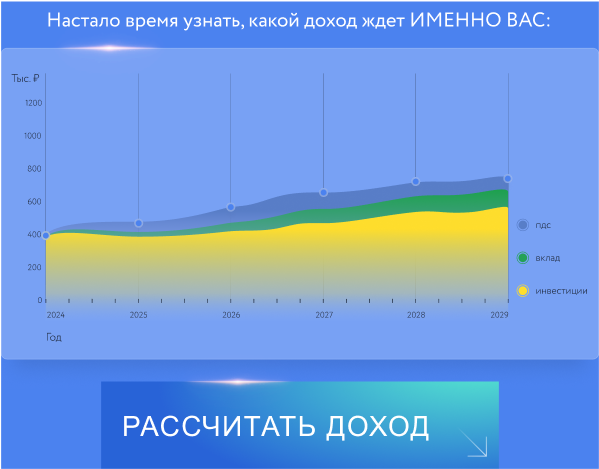
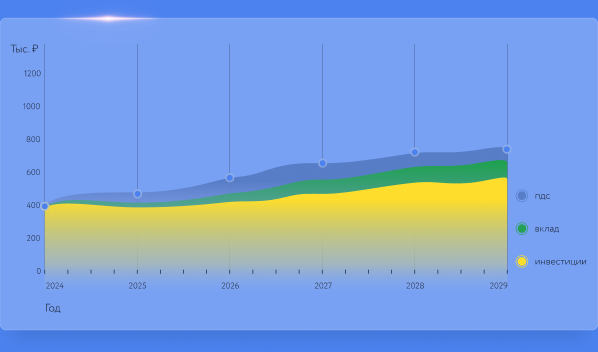
updates

diff --git a/index.html b/index.html
@@ -8,9 +8,12 @@
     <meta name="viewport" content="width=device-width, initial-scale=1">
     <meta name="format-detection" content="telephone=no, date=no, address=no, email=no">
     <meta name="x-apple-disable-message-reformatting">
+    <meta name="color-scheme" content="light dark">
+    <meta name="supported-color-schemes" content="light dark">
     <title>НПФ «БУДУЩЕЕ»</title>
     <style type="text/css">
-      @font-face { font-family: Circe; src: url("circe-light-webfont.woff2") format("woff2"), url("circe-light-webfont.woff") format("woff"); font-weight: 300; font-style: normal; font-display: swap; }
+      @font-face { font-family: Circe; src: url("https://kochhh.github.io/npf-email-test/circe-light-webfont.woff2") format("woff2"), url("https://kochhh.github.io/npf-email-test/circe-light-webfont.woff") format("woff"); font-weight: 300; font-style: normal; font-display: swap; }
+      :root { color-scheme: light dark; supported-color-schemes: light dark; }
       .ExternalClass { width: 100%; }
       .ExternalClass, .ExternalClass p, .ExternalClass span, .ExternalClass font, .ExternalClass td, .ExternalClass div { line-height: 100%; }
       #MessageViewBody { width: 100vw !important; min-width: 100vw !important; padding: 0 !important; margin: 0 !important; zoom: 1 !important; }
@@ -20,25 +23,24 @@
       table, td { border-collapse: collapse; mso-table-lspace: 0pt; mso-table-rspace: 0pt; }
       img { border: 0; height: auto; line-height: 100%; outline: none; text-decoration: none; -ms-interpolation-mode: bicubic; }
       @media screen {
-        td, th, div, p, h1, h2, h3, h4, h5, h6 { font-family: Arial, Helvetica, sans-serif; font-weight: 400; margin: 0; padding: 0; }
+        td, th, div, p, li, h1, h2, h3, h4, h5, h6 { font-family: Arial, Helvetica, sans-serif; font-weight: 400; margin: 0; padding: 0; }
         img { max-width: 100%; height: auto; }
       }
       @media only screen and (max-width: 599.98px) {
         .container { width: 100% !important; }
-        .loop-cell { background-size: 196px auto !important; }
-        .loop-cell--top { background-position: left 224px bottom -66px !important; }
-        .loop-cell--bottom { background-position: 224px -25px !important; }
+        .loop-cell--top { background-size: 196px auto !important; background-position: 224px 171px !important; }
+        .loop-cell--bottom { background-size: 196px auto !important; background-position: 224px -25px !important; }
         .decor-cell { display: none !important; }
       }
       @media only screen and (max-width: 519.98px) {
         .container-cell { padding: 0 20px 0 20px !important; }
-        .head-cell { display: block !important; width: 100% !important; }
-        .head-cell--left { padding: 66px 0 0 0 !important; }
-        .loop-cell--top { background-position: right 10px bottom -66px !important; }
-        .loop-cell--bottom { background-position: right 10px top -25px !important; }
+        .head-cell--left { display: block !important; width: 100% !important; height: auto !important; padding: 64px 0 0 0 !important; }
+        .head-cell--right { display: block !important; width: 100% !important; }
+        .loop-cell--top, .loop-cell--bottom { background: none !important; }
       }
       @media only screen and (max-width: 439.98px) {
         .adv-cell { display: block !important; width: 100% !important; padding: 0 0 6px 0 !important; }
+        .adv-cell--last { display: block !important; width: 100% !important; padding: 0 !important; }
         .eye-cell { display: none !important; }
       }
       @media only screen and (max-width: 359.98px) {
@@ -56,10 +58,12 @@
       </noscript>
     <![endif]-->
     <!--[if lte mso 11]>
-      <style type="text/css"></style>
+      <style type="text/css">
+        table { border-collapse: collapse !important; mso-table-lspace: 0pt !important; mso-table-rspace: 0pt !important; }
+      </style>
     <![endif]-->
   </head>
-  <body bgcolor="#FFFFFE" style="margin: 0; padding: 0; width: 100%; word-break: break-word; font-family: Arial, Helvetica, sans-serif; font-size: 14px; line-height: 15px; background: #FFFFFE; color: #292929;">
+  <body bgcolor="#FFFFFE" class="body" style="margin: 0; padding: 0; width: 100%; word-break: break-word; font-family: Arial, Helvetica, sans-serif; font-size: 14px; line-height: 15px; background: #FFFFFE; color: #292929;">
     <div style="max-height: 0; overflow: hidden; mso-hide: all;" aria-hidden="true">
       Обеспечьте свое будущее с программой долгосрочных сбережений (ПДС)
     </div>
@@ -68,7 +72,7 @@
         <td style="background: #FFFFFE;">
           <table role="presentation" cellpadding="0" cellspacing="0" width="100%" style="border-collapse: collapse;">
             <tr>
-              <td align="center" style="background: #000000 url(head-image@2x.jpg) center top / auto 268px no-repeat; background-color: #000000; background-position: center top; background-repeat: no-repeat; background-size: auto 268px;">
+              <td class="head" align="center" style="background: #000000 url(https://kochhh.github.io/npf-email-test/head-image@2x.jpg) center top / 600px 350px no-repeat; background-color: #000000; background-position: center top; background-repeat: no-repeat; background-size: 600px 350px;">
                 <table role="presentation" class="container" cellpadding="0" cellspacing="0" width="600" style="border-collapse: collapse;">
                   <tr>
                     <td align="left" class="container-cell" style="padding: 0 20px 0 50px;">
@@ -77,24 +81,24 @@
                           <td style="padding: 27px 0 0 0;">
                             <table role="presentation" cellpadding="0" cellspacing="0" width="100%" style="border-collapse: collapse;">
                               <tr>
-                                <td valign="top" width="50%" colspan="2">
+                                <td valign="top" width="50%">
                                   <a href="#" target="_blank" style="text-decoration: none;">
-                                    <img src="logo@2x.png" width="113" height="43" border="0" alt="НПФ «БУДУЩЕЕ»" style="display: block;">
+                                    <img src="https://kochhh.github.io/npf-email-test/logo@2x.png" width="113" height="43" border="0" alt="НПФ «БУДУЩЕЕ»" />
                                   </a>
                                 </td>
                               </tr>
                               <tr>
-                                <td class="loop-cell loop-cell--top" style="background: url(loop@2x.png) left 224px bottom -92px / 266px auto no-repeat; background-position: left 224px bottom -92px; background-repeat: no-repeat; background-size: 266px auto;">
+                                <td class="loop-cell--top" style="background: url(https://kochhh.github.io/npf-email-test/loop@2x.png) 224px 164px / 266px auto no-repeat; background-position: 224px 164px; background-repeat: no-repeat; background-size: 266px auto;">
                                   <table role="presentation" cellpadding="0" cellspacing="0" width="100%" style="border-collapse: collapse;">
                                     <tr>
-                                      <td class="head-cell head-cell--left" valign="bottom" width="50%" style="padding: 66px 0 24px 0; font-family: Circe, Arial, Helvetica, sans-serif; font-size: 19.4px; line-height: 21.6px; text-transform: uppercase; color: #FFFFFE; letter-spacing: 0.05em;">
+                                      <td class="head-cell--left" valign="bottom" width="50%" height="172" style="padding: 0 0 24px 0; font-family: Circe, Arial, Helvetica, sans-serif; font-size: 19.4px; line-height: 21.6px; text-transform: uppercase; color: #FFFFFE; letter-spacing: 0.05em;">
                                         <h1 style="margin: 0; max-width: 220px; font-family: Circe, Arial, Helvetica, sans-serif; font-size: 19.4px; font-weight: 300; line-height: 21.6px; text-transform: uppercase; color: #FFFFFE; letter-spacing: 0.05em;">
                                           Обеспечьте<br /> свое будущее с&nbsp;программой <span style="color: #4B82EF;">долгосрочных сбережений (ПДС)</span>
                                         </h1>
                                       </td>
-                                      <td class="head-cell head-cell--right" align="right" valign="bottom" width="50%">
-                                        <a href="#" target="_blank" style="display: block; text-decoration: none;" title="Оформить ПДС в НПФ «БУДУЩЕЕ»" aria-label="Оформить ПДС в НПФ «БУДУЩЕЕ»">
-                                          <img src="head-button@2x.png" width="204" height="82" border="0" alt="Оформить ПДС в НПФ «БУДУЩЕЕ»" style="display: block;">
+                                      <td class="head-cell--right" align="right" valign="bottom" width="50%">
+                                        <a href="#" target="_blank" style="text-decoration: none;" title="Оформить ПДС в НПФ «БУДУЩЕЕ»" aria-label="Оформить ПДС в НПФ «БУДУЩЕЕ»">
+                                          <img src="https://kochhh.github.io/npf-email-test/head-button@2x.png" width="204" height="82" border="0" alt="Оформить ПДС в НПФ «БУДУЩЕЕ»" />
                                         </a>
                                       </td>
                                     </tr>
@@ -117,7 +121,7 @@
                     <td align="left" class="container-cell" style="padding: 0 50px 0 50px;">
                       <table role="presentation" cellpadding="0" cellspacing="0" width="100%" style="border-collapse: collapse;">
                         <tr>
-                          <td class="loop-cell loop-cell--bottom" style="padding: 30px 0 25px 0; background: url(loop@2x.png) 224px -32px / 266px auto no-repeat; background-position: 224px -32px; background-repeat: no-repeat; background-size: 266px auto;">
+                          <td class="loop-cell--bottom" style="padding: 30px 0 25px 0; background: url(https://kochhh.github.io/npf-email-test/loop@2x.png) 224px -32px / 266px auto no-repeat; background-position: 224px -32px; background-repeat: no-repeat; background-size: 266px auto;">
                             <table role="presentation" cellpadding="0" cellspacing="0" width="100%" style="border-collapse: collapse;">
                               <tr>
                                 <td style="padding: 0 0 12px 0; font-size: 10px; line-height: 11.4px;">
@@ -136,7 +140,7 @@
                                   <table role="presentation" cellpadding="0" cellspacing="0" width="100%" style="border-collapse: collapse;">
                                     <tr valign="middle">
                                       <td width="64">
-                                        <img src="digit-01@2x.png" width="52" height="52" border="0" alt="01" style="display: block;">
+                                        <img src="https://kochhh.github.io/npf-email-test/digit-01@2x.png" width="52" height="52" border="0" alt="01" />
                                       </td>
                                       <td height="40" style="padding: 6px 0 6px 0; font-size: 14px; line-height: 15px; color: #292929;">
                                         Вы заключаете договор с&nbsp;АО&nbsp;«НПФ&nbsp;«БУДУЩЕЕ»
@@ -144,7 +148,7 @@
                                     </tr>
                                     <tr valign="middle">
                                       <td width="64">
-                                        <img src="digit-02@2x.png" width="52" height="52" border="0" alt="02" style="display: block;">
+                                        <img src="https://kochhh.github.io/npf-email-test/digit-02@2x.png" width="52" height="52" border="0" alt="02" />
                                       </td>
                                       <td height="40" style="padding: 6px 0 6px 0; font-size: 14px; line-height: 15px; color: #292929;">
                                         Вносите деньги на&nbsp;свой счет в&nbsp;течение срока участия в&nbsp;программе
@@ -152,7 +156,7 @@
                                     </tr>
                                     <tr valign="middle">
                                       <td width="64">
-                                        <img src="digit-03@2x.png" width="52" height="52" border="0" alt="03" style="display: block;">
+                                        <img src="https://kochhh.github.io/npf-email-test/digit-03@2x.png" width="52" height="52" border="0" alt="03" />
                                       </td>
                                       <td height="40" style="padding: 6px 0 6px 0; font-size: 14px; line-height: 15px; color: #292929;">
                                         Государство в&nbsp;последующие 10 лет дополнительно софинансирует ваши вложения до&nbsp;36&nbsp;тыс.&nbsp;рублей в&nbsp;год
@@ -160,7 +164,7 @@
                                     </tr>
                                     <tr valign="middle">
                                       <td width="64">
-                                        <img src="digit-04@2x.png" width="52" height="52" border="0" alt="04" style="display: block;">
+                                        <img src="https://kochhh.github.io/npf-email-test/digit-04@2x.png" width="52" height="52" border="0" alt="04" />
                                       </td>
                                       <td height="40" style="padding: 6px 0 6px 0; font-size: 14px; line-height: 15px; color: #292929;">
                                         Вы ежегодно получаете налоговый вычет до&nbsp;60&nbsp;тыс.&nbsp;рублей
@@ -168,7 +172,7 @@
                                     </tr>
                                     <tr valign="middle">
                                       <td width="64">
-                                        <img src="digit-05@2x.png" width="52" height="52" border="0" alt="05" style="display: block;">
+                                        <img src="https://kochhh.github.io/npf-email-test/digit-05@2x.png" width="52" height="52" border="0" alt="05" />
                                       </td>
                                       <td height="40" style="padding: 6px 0 6px 0; font-size: 14px; line-height: 15px; color: #292929;">
                                         НПФ инвестирует ваши средства в&nbsp;течение всего срока договора, приумножая ваш доход<sup style="font-size: 8px; line-height: 0;">1</sup>
@@ -176,7 +180,7 @@
                                     </tr>
                                     <tr valign="middle">
                                       <td width="64">
-                                        <img src="digit-06@2x.png" width="52" height="52" border="0" alt="06" style="display: block;">
+                                        <img src="https://kochhh.github.io/npf-email-test/digit-06@2x.png" width="52" height="52" border="0" alt="06" />
                                       </td>
                                       <td height="40" style="padding: 6px 0 6px 0; font-size: 14px; line-height: 15px; color: #292929;">
                                         Вы можете получить накопленные средства с&nbsp;инвестиционным доходом уже через 15&nbsp;лет или раньше, в&nbsp;случае особых жизненных ситуаций<sup style="font-size: 8px; line-height: 0;">2</sup>
@@ -189,11 +193,13 @@
                                           <tr height="5">
                                             <td width="16" style="font-size: 0; line-height: 0;">&nbsp;</td>
                                             <td style="font-size: 0; line-height: 0;">
-                                              <img src="tail@2x.png" width="8" height="5" border="0" alt="" style="display: block;">
+                                              <div style="display: block; width: 0; height: 0; border-style: solid; border-width: 0 4px 5px 4px; border-color: transparent transparent #41C8A3 transparent;"></div>
                                             </td>
                                           </tr>
+                                        </table>
+                                        <table role="presentation" cellpadding="0" cellspacing="0" style="border-collapse: collapse;">
                                           <tr>
-                                            <td colspan="2" style="background: #41C8A3; color: #FFFFFE; font-size: 10px; line-height: 11px; padding: 11px  11px 11px 11px; border-radius: 6px;">
+                                            <td style="background: #41C8A3; color: #FFFFFE; font-size: 10px; line-height: 11px; padding: 11px  11px 11px 11px; border-radius: 6px;">
                                               Ежемесячными платежами или всю сумму целиком
                                             </td>
                                           </tr>
@@ -233,15 +239,31 @@
                                   <table role="presentation" cellpadding="0" cellspacing="0" width="100%" style="border-collapse: collapse;">
                                     <tr>
                                       <td class="decor-cell" width="96" valign="bottom">
-                                        <img src="decor@2x.png" width="96" height="88" border="0" alt="" style="display: block; margin: 0 0 28px 0;">
+                                        <img src="https://kochhh.github.io/npf-email-test/decor@2x.png" width="96" height="88" border="0" alt="" style="margin: 0 0 28px 0;" />
                                       </td>
-                                      <td align="center">
-                                        <a href="#" target="_blank" style="display: block; text-decoration: none;" title="Рассчитать доход" aria-label="Рассчитать доход">
-                                          <img src="chart@2x.png" width="300" height="235" border="0" alt="Рассчитать доход" style="display: block;">
-                                        </a>
+                                      <td>
+                                        <table role="presentation" cellpadding="0" cellspacing="0" width="100%" style="border-collapse: collapse;">
+                                          <tr>
+                                            <td align="center" style="font-size: 10px; line-height: 11px;">
+                                              Настало время узнать, какой доход ждет ИМЕННО ВАС:
+                                            </td>
+                                          </tr>
+                                          <tr>
+                                            <td align="center">
+                                              <img src="https://kochhh.github.io/npf-email-test/chart@2x.png" width="299" height="176" border="0" alt="" />
+                                            </td>
+                                          </tr>
+                                          <tr>
+                                            <td align="center">
+                                              <a href="#" target="_blank" style="text-decoration: none;" title="Рассчитать доход" aria-label="Рассчитать доход">
+                                                <img src="https://kochhh.github.io/npf-email-test/chart-button@2x.png" width="199" height="55" border="0" alt="Рассчитать доход" />
+                                              </a>
+                                            </td>
+                                          </tr>
+                                        </table>
                                       </td>
                                       <td class="decor-cell" width="96" align="right" valign="top">
-                                        <img src="decor@2x.png" width="96" height="88" border="0" alt="" style="display: block; width: 34px; margin: 24px 8px 0 0;">
+                                        <img src="https://kochhh.github.io/npf-email-test/decor@2x.png" width="96" height="88" border="0" alt="" style="width: 34px; margin: 24px 8px 0 0;" />
                                       </td>
                                     </tr>
                                   </table>
@@ -274,19 +296,19 @@
                                 <td style="padding: 0 0 26px 0; ">
                                   <table role="presentation" cellpadding="0" cellspacing="6" width="100%" style="border-collapse: collapse;">
                                     <tr>
-                                      <td width="50%" height="65" class="adv-cell" style="padding: 0 3px 6px 0;">
-                                        <table role="presentation" cellpadding="0" cellspacing="0" width="100%" height="100%" style="border-collapse: collapse;">
+                                      <td width="50%" class="adv-cell" style="padding: 0 3px 6px 0;">
+                                        <table role="presentation" cellpadding="0" cellspacing="0" width="100%" style="border-collapse: collapse;">
                                           <tr>
-                                            <td valign="middle" style="background: #4B82EF url(adv-flash@2x.png) 13px top / 115px auto no-repeat; background-color: #4B82EF; background-position: 13px top; background-repeat: no-repeat; background-size: 115px auto; color: #FFFFFE; font-size: 12px; line-height: 11px; padding: 4px 8px 4px 8px; border-radius: 6px;">
+                                            <td valign="middle" height="57" style="background: #4B82EF url(https://kochhh.github.io/npf-email-test/adv-flash@2x.png) 13px top / 115px auto no-repeat; background-color: #4B82EF; background-position: 13px top; background-repeat: no-repeat; background-size: 115px auto; color: #FFFFFE; font-size: 12px; line-height: 11px; padding: 4px 8px 4px 8px; border-radius: 6px;">
                                               Можно перевести в&nbsp;ПДС сформированные средства пенсионных накоплений «замороженные» с&nbsp;2014 года
                                             </td>
                                           </tr>
                                         </table>
                                       </td>
-                                      <td width="50%" height="65" class="adv-cell" style="padding: 0 0 6px 3px;">
-                                        <table role="presentation" cellpadding="0" cellspacing="0" width="100%" height="100%" style="border-collapse: collapse;">
+                                      <td width="50%" class="adv-cell" style="padding: 0 0 6px 3px;">
+                                        <table role="presentation" cellpadding="0" cellspacing="0" width="100%" style="border-collapse: collapse;">
                                           <tr>
-                                            <td valign="middle" style="background: #4B82EF url(adv-flash@2x.png) 13px top / 115px auto no-repeat; background-color: #4B82EF; background-position: 13px top; background-repeat: no-repeat; background-size: 115px auto; color: #FFFFFE; font-size: 12px; line-height: 11px; padding: 4px 8px 4px 8px; border-radius: 6px;">
+                                            <td valign="middle" height="57" style="background: #4B82EF url(https://kochhh.github.io/npf-email-test/adv-flash@2x.png) 13px top / 115px auto no-repeat; background-color: #4B82EF; background-position: 13px top; background-repeat: no-repeat; background-size: 115px auto; color: #FFFFFE; font-size: 12px; line-height: 11px; padding: 4px 8px 4px 8px; border-radius: 6px;">
                                               Государственное софинансирование до&nbsp;36&nbsp;тыс.&nbsp;рублей в&nbsp;год в&nbsp;течение 10 лет
                                             </td>
                                           </tr>
@@ -294,19 +316,19 @@
                                       </td>
                                     </tr>
                                     <tr>
-                                      <td width="50%" height="65" class="adv-cell" style="padding: 0 3px 6px 0;">
-                                        <table role="presentation" cellpadding="0" cellspacing="0" width="100%" height="100%" style="border-collapse: collapse;">
+                                      <td width="50%" class="adv-cell" style="padding: 0 3px 6px 0;">
+                                        <table role="presentation" cellpadding="0" cellspacing="0" width="100%" style="border-collapse: collapse;">
                                           <tr>
-                                            <td valign="middle" style="background: #4B82EF url(adv-flash@2x.png) 13px top / 115px auto no-repeat; background-color: #4B82EF; background-position: 13px top; background-repeat: no-repeat; background-size: 115px auto; color: #FFFFFE; font-size: 12px; line-height: 11px; padding: 4px 8px 4px 8px; border-radius: 6px;">
+                                            <td valign="middle" height="57" style="background: #4B82EF url(https://kochhh.github.io/npf-email-test/adv-flash@2x.png) 13px top / 115px auto no-repeat; background-color: #4B82EF; background-position: 13px top; background-repeat: no-repeat; background-size: 115px auto; color: #FFFFFE; font-size: 12px; line-height: 11px; padding: 4px 8px 4px 8px; border-radius: 6px;">
                                               Накопления застрахованы государством на&nbsp;2,8 млн. рублей
                                             </td>
                                           </tr>
                                         </table>
                                       </td>
-                                      <td width="50%" height="65" class="adv-cell" style="padding: 0 0 6px 3px;">
-                                        <table role="presentation" cellpadding="0" cellspacing="0" width="100%" height="100%" style="border-collapse: collapse;">
+                                      <td width="50%" class="adv-cell" style="padding: 0 0 6px 3px;">
+                                        <table role="presentation" cellpadding="0" cellspacing="0" width="100%" style="border-collapse: collapse;">
                                           <tr>
-                                            <td valign="middle" style="background: #4B82EF url(adv-flash@2x.png) 13px top / 115px auto no-repeat; background-color: #4B82EF; background-position: 13px top; background-repeat: no-repeat; background-size: 115px auto; color: #FFFFFE; font-size: 12px; line-height: 11px; padding: 4px 8px 4px 8px; border-radius: 6px;">
+                                            <td valign="middle" height="57" style="background: #4B82EF url(https://kochhh.github.io/npf-email-test/adv-flash@2x.png) 13px top / 115px auto no-repeat; background-color: #4B82EF; background-position: 13px top; background-repeat: no-repeat; background-size: 115px auto; color: #FFFFFE; font-size: 12px; line-height: 11px; padding: 4px 8px 4px 8px; border-radius: 6px;">
                                               Получить накопления можно при наступлении пенсионного возраста или&nbsp;через 15&nbsp;лет после начала участия в&nbsp;программе
                                             </td>
                                           </tr>
@@ -314,19 +336,19 @@
                                       </td>
                                     </tr>
                                     <tr>
-                                      <td width="50%" height="65" class="adv-cell" style="padding: 0 3px 6px 0;">
-                                        <table role="presentation" cellpadding="0" cellspacing="0" width="100%" height="100%" style="border-collapse: collapse;">
+                                      <td width="50%" class="adv-cell" style="padding: 0 3px 6px 0;">
+                                        <table role="presentation" cellpadding="0" cellspacing="0" width="100%" style="border-collapse: collapse;">
                                           <tr>
-                                            <td valign="middle" style="background: #4B82EF url(adv-flash@2x.png) 13px top / 115px auto no-repeat; background-color: #4B82EF; background-position: 13px top; background-repeat: no-repeat; background-size: 115px auto; color: #FFFFFE; font-size: 12px; line-height: 11px; padding: 4px 8px 4px 8px; border-radius: 6px;">
+                                            <td valign="middle" height="57" style="background: #4B82EF url(https://kochhh.github.io/npf-email-test/adv-flash@2x.png) 13px top / 115px auto no-repeat; background-color: #4B82EF; background-position: 13px top; background-repeat: no-repeat; background-size: 115px auto; color: #FFFFFE; font-size: 12px; line-height: 11px; padding: 4px 8px 4px 8px; border-radius: 6px;">
                                               Налоговый вычет<br /> до&nbsp;60&nbsp;тыс.&nbsp;рублей в&nbsp;год
                                             </td>
                                           </tr>
                                         </table>
                                       </td>
-                                      <td width="50%" height="65" class="adv-cell" style="padding: 0 0 6px 3px;">
-                                        <table role="presentation" cellpadding="0" cellspacing="0" width="100%" height="100%" style="border-collapse: collapse;">
+                                      <td width="50%" class="adv-cell" style="padding: 0 0 6px 3px;">
+                                        <table role="presentation" cellpadding="0" cellspacing="0" width="100%" style="border-collapse: collapse;">
                                           <tr>
-                                            <td valign="middle" style="background: #4B82EF url(adv-flash@2x.png) 13px top / 115px auto no-repeat; background-color: #4B82EF; background-position: 13px top; background-repeat: no-repeat; background-size: 115px auto; color: #FFFFFE; font-size: 12px; line-height: 11px; padding: 4px 8px 4px 8px; border-radius: 6px;">
+                                            <td valign="middle" height="57" style="background: #4B82EF url(https://kochhh.github.io/npf-email-test/adv-flash@2x.png) 13px top / 115px auto no-repeat; background-color: #4B82EF; background-position: 13px top; background-repeat: no-repeat; background-size: 115px auto; color: #FFFFFE; font-size: 12px; line-height: 11px; padding: 4px 8px 4px 8px; border-radius: 6px;">
                                               Инвестирование средств профессионалами НПФ&nbsp;«БУДУЩЕЕ» на&nbsp;протяжении всего срока для повышения доходности<br />
                                               <small style="font-size: 10px;">(от&nbsp;25% до&nbsp;100% на&nbsp;взносы в&nbsp;ПДС)</small>
                                             </td>
@@ -335,19 +357,19 @@
                                       </td>
                                     </tr>
                                     <tr>
-                                      <td width="50%" height="65" class="adv-cell" style="padding: 0 3px 0 0;">
-                                        <table role="presentation" cellpadding="0" cellspacing="0" width="100%" height="100%" style="border-collapse: collapse;">
+                                      <td width="50%" class="adv-cell" style="padding: 0 3px 0 0;">
+                                        <table role="presentation" cellpadding="0" cellspacing="0" width="100%" style="border-collapse: collapse;">
                                           <tr>
-                                            <td valign="middle" style="background: #4B82EF url(adv-flash@2x.png) 13px top / 115px auto no-repeat; background-color: #4B82EF; background-position: 13px top; background-repeat: no-repeat; background-size: 115px auto; color: #FFFFFE; font-size: 12px; line-height: 11px; padding: 4px 8px 4px 8px; border-radius: 6px;">
+                                            <td valign="middle" height="57" style="background: #4B82EF url(https://kochhh.github.io/npf-email-test/adv-flash@2x.png) 13px top / 115px auto no-repeat; background-color: #4B82EF; background-position: 13px top; background-repeat: no-repeat; background-size: 115px auto; color: #FFFFFE; font-size: 12px; line-height: 11px; padding: 4px 8px 4px 8px; border-radius: 6px;">
                                               Можно забрать всю сумму сразу или&nbsp;ежемесячными платежами
                                             </td>
                                           </tr>
                                         </table>
                                       </td>
-                                      <td width="50%" height="65" class="adv-cell" style="padding: 0 0 0 3px;">
-                                        <table role="presentation" cellpadding="0" cellspacing="0" width="100%" height="100%" style="border-collapse: collapse;">
+                                      <td width="50%" class="adv-cell--last" style="padding: 0 0 0 3px;">
+                                        <table role="presentation" cellpadding="0" cellspacing="0" width="100%" style="border-collapse: collapse;">
                                           <tr>
-                                            <td valign="middle" style="background: #4B82EF url(adv-flash@2x.png) 13px top / 115px auto no-repeat; background-color: #4B82EF; background-position: 13px top; background-repeat: no-repeat; background-size: 115px auto; color: #FFFFFE; font-size: 12px; line-height: 11px; padding: 4px 8px 4px 8px; border-radius: 6px;">
+                                            <td valign="middle" height="57" style="background: #4B82EF url(https://kochhh.github.io/npf-email-test/adv-flash@2x.png) 13px top / 115px auto no-repeat; background-color: #4B82EF; background-position: 13px top; background-repeat: no-repeat; background-size: 115px auto; color: #FFFFFE; font-size: 12px; line-height: 11px; padding: 4px 8px 4px 8px; border-radius: 6px;">
                                               Вы сможете получить сбережения досрочно в&nbsp;случае особой жизненной ситуации<sup style="font-size: 8px; line-height: 0;">2</sup>
                                             </td>
                                           </tr>
@@ -362,19 +384,19 @@
                                   <table role="presentation" cellpadding="0" cellspacing="6" width="100%" style="border-collapse: collapse;">
                                     <tr>
                                       <td width="44.5%" valign="top" class="eye-cell" style="padding: 0 20px 0 0;">
-                                        <img src="eye@2x.png" width="192" height="144" border="0" alt="" style="display: block;">
+                                        <img src="https://kochhh.github.io/npf-email-test/eye@2x.png" width="192" height="144" border="0" alt="" />
                                       </td>
                                       <td width="55.5%">
                                         <table role="presentation" cellpadding="0" cellspacing="6" width="100%" style="border-collapse: collapse;">
                                           <tr>
                                             <td style="padding: 0 0 20px 0; font-size: 17.8px; line-height: 20.3px; color: #4B82EF;">
-                                              НПФ «БУДУЩЕЕ» входит в топ-5 фондов в стране и имеет «наивысший уровень кредитоспособности/финансовой надежности/ устойчивости»<sup style="font-size: 10px; line-height: 0;">3</sup>
+                                              НПФ&nbsp;«БУДУЩЕЕ» входит в&nbsp;топ-5 фондов в&nbsp;стране и&nbsp;имеет «наивысший уровень кредитоспособности/финансовой надежности/устойчивости»<sup style="font-size: 10px; line-height: 0;">3</sup>
                                             </td>
                                           </tr>
                                           <tr>
                                             <td>
                                               <a href="#" target="_blank" style="text-decoration: none;" title="Оформить ПДС в НПФ «БУДУЩЕЕ»" aria-label="Оформить ПДС в НПФ «БУДУЩЕЕ»">
-                                                <img src="button-bottom@2x.png" width="199" height="44" border="0" alt="Оформить ПДС в НПФ «БУДУЩЕЕ»" style="display: block;">
+                                                <img src="https://kochhh.github.io/npf-email-test/button-bottom@2x.png" width="199" height="44" border="0" alt="Оформить ПДС в НПФ «БУДУЩЕЕ»" />
                                               </a>
                                             </td>
                                           </tr>
@@ -386,10 +408,10 @@
                               </tr>
                               <tr>
                                 <td style="">
-                                  <ol style="margin: 0; padding: 0 0 0 8px;">
-                                    <li style="font-size: 6.7px; line-height: 8px;">Результаты инвестирования в&nbsp;прошлом не&nbsp;определяют доходов в&nbsp;будущем. Государство не&nbsp;гарантирует доходности размещения пенсионных резервов.</li>
-                                    <li style="font-size: 6.7px; line-height: 8px;">На оплату дорогостоящего лечения, виды которого перечислены в&nbsp;перечне, утвержденном Правительством РФ, а&nbsp;также в&nbsp;случае потери кормильца участника программы.</li>
-                                    <li style="font-size: 6.7px; line-height: 8px;">Рейтинг «AAA|ru.pf|» по&nbsp;данным Национального Рейтингового Агентства</li>
+                                  <ol style="margin: 0; padding: 0 0 0 10px;">
+                                    <li style="margin: 0; padding: 0; font-size: 6.7px; line-height: 8px;">Результаты инвестирования в&nbsp;прошлом не&nbsp;определяют доходов в&nbsp;будущем. Государство не&nbsp;гарантирует доходности размещения пенсионных резервов.</li>
+                                    <li style="margin: 0; padding: 0; font-size: 6.7px; line-height: 8px;">На оплату дорогостоящего лечения, виды которого перечислены в&nbsp;перечне, утвержденном Правительством РФ, а&nbsp;также в&nbsp;случае потери кормильца участника программы.</li>
+                                    <li style="margin: 0; padding: 0; font-size: 6.7px; line-height: 8px;">Рейтинг «AAA|ru.pf|» по&nbsp;данным Национального Рейтингового Агентства</li>
                                   </ol>
                                 </td>
                               </tr>
